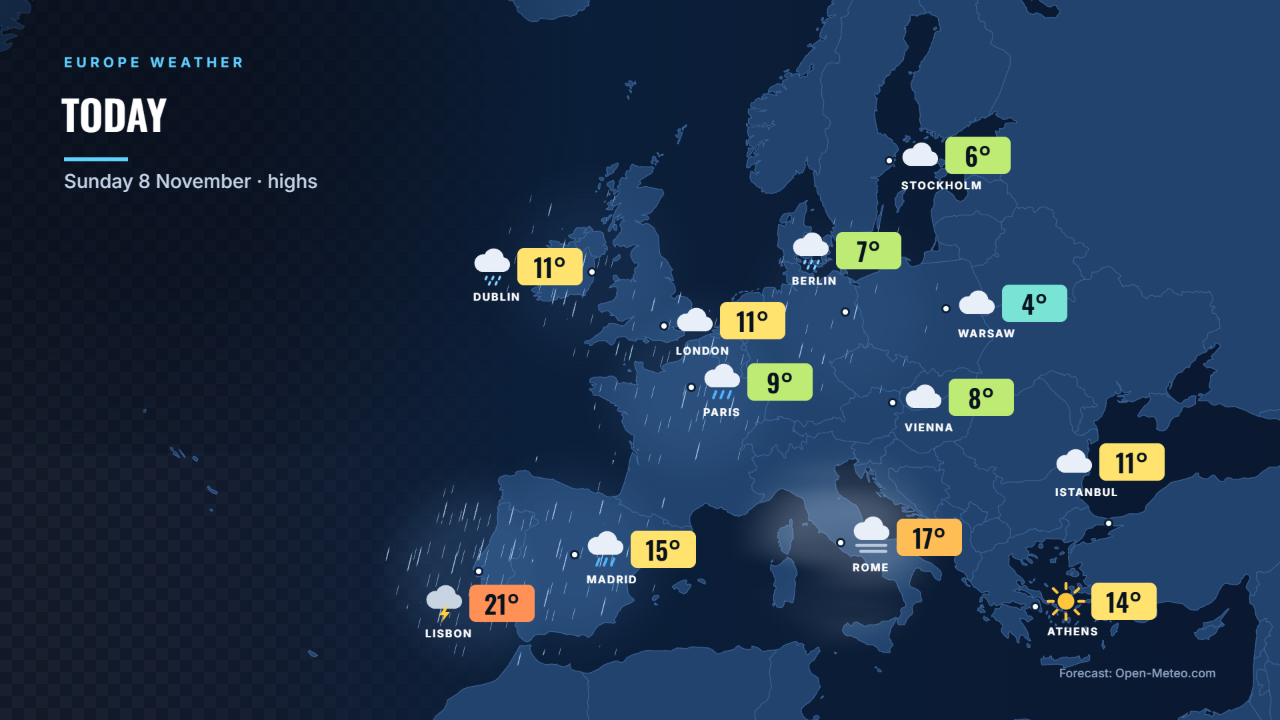
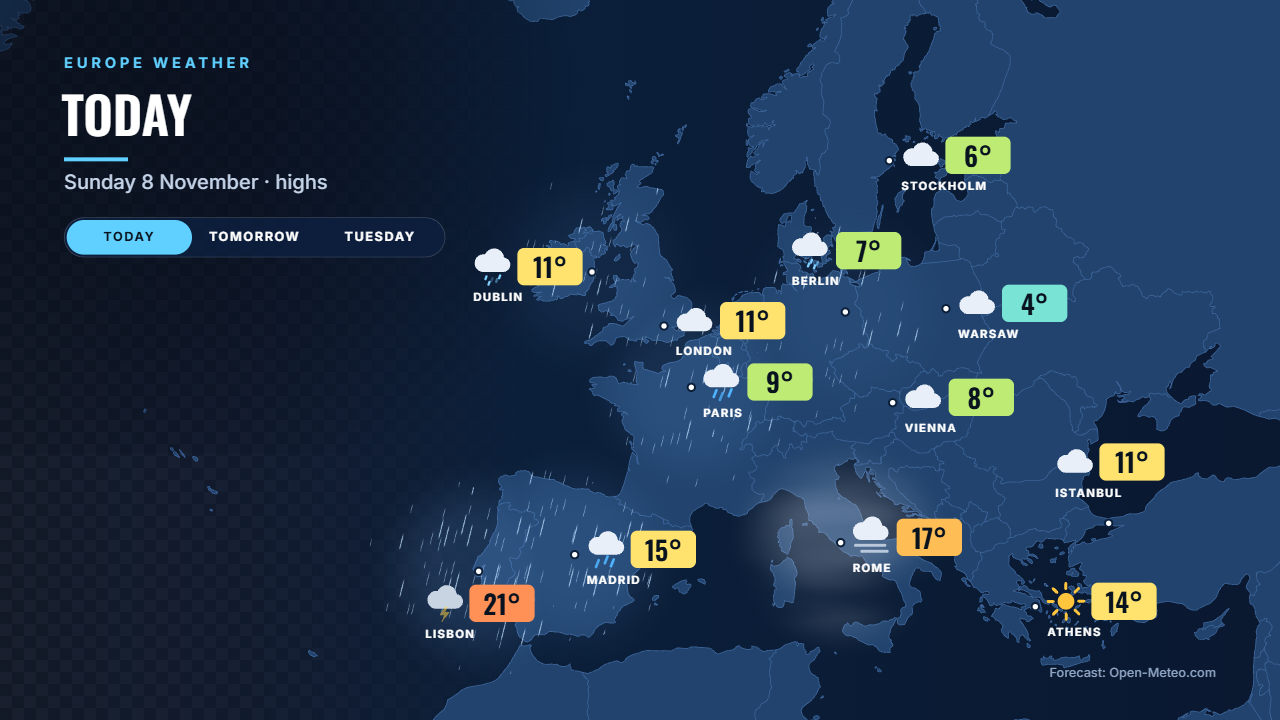
List the weather examples, and give iPhones a Fullscreen button
Europe weather and the weather strap come off unlisted: they join the
examples page, the menu and the sitemap, but stay off the homepage's "Take
the controls". The weather thumbnail now shows the day buttons, its card
gets the Interactive tag, and "How it was made" lists the later prompts.

iPhones can't put an element in fullscreen, so the example players and the
homepage reel hid their Fullscreen button there. Now it shows everywhere:
where the browser can't (or refuses), the frame fills the window instead,
the page behind stays still, and Esc or Exit fullscreen leaves. On a phone
held upright, weather and Live markets turn their picture sideways, as they
already did in Android fullscreen; taps on it still land on the right button.

diff --git a/src/components/OGrafExample/index.tsx b/src/components/OGrafExample/index.tsx
@@ -277,6 +277,9 @@ function LivePlayer({
   const [stepCount, setStepCount] = useState(1);
   const [step, setStep] = useState(0);
   const [fullscreen, setFullscreen] = useState(false);
+  /** iPhones can't put an element in fullscreen, so there the frame fills the window instead. */
+  const [filling, setFilling] = useState(false);
+  const expanded = fullscreen || filling;
   /** The browser couldn't turn the screen to landscape, so the picture turns instead. */
   const [turned, setTurned] = useState(false);
   const [barAwake, setBarAwake] = useState(true);
@@ -306,8 +309,8 @@ function LivePlayer({
   }, []);
 
   useEffect(() => {
-    if (fullscreen) wakeBar();
-  }, [fullscreen, wakeBar]);
+    if (expanded) wakeBar();
+  }, [expanded, wakeBar]);
 
   const onPhone = landscapeFullscreen && window.matchMedia('(pointer: coarse)').matches;
 
@@ -322,13 +325,39 @@ function LivePlayer({
   };
 
   const toggleFullscreen = () => {
-    const request = document.fullscreenElement
-      ? document.exitFullscreen()
-      : frameRef.current?.requestFullscreen().then(turnToLandscape);
-    request?.catch((cause: unknown) => {
-      setError(cause instanceof Error ? cause.message : String(cause));
-    });
+    if (filling || !document.fullscreenEnabled) {
+      setFilling(!filling);
+      return;
+    }
+    if (document.fullscreenElement) {
+      document.exitFullscreen().catch(() => undefined);
+      return;
+    }
+    // A browser that refuses fullscreen gets the frame filling the window instead.
+    frameRef.current
+      ?.requestFullscreen()
+      .then(turnToLandscape)
+      .catch(() => setFilling(true));
   };
+
+  // Filling the window: the page behind stays still, Esc leaves, and a phone held upright gets the
+  // picture on its side, since only fullscreen can turn the screen.
+  useEffect(() => {
+    if (!filling) return undefined;
+    const root = document.documentElement;
+    const overflow = root.style.overflow;
+    root.style.overflow = 'hidden';
+    if (onPhone) setTurned(true);
+    const leave = (event: KeyboardEvent) => {
+      if (event.key === 'Escape') setFilling(false);
+    };
+    document.addEventListener('keydown', leave);
+    return () => {
+      root.style.overflow = overflow;
+      document.removeEventListener('keydown', leave);
+      setTurned(false);
+    };
+  }, [filling, onPhone]);
 
   // Load the graphic once it's really on screen, or once the visitor scrolls towards it. On the homepage
   // it sits just under the fold, so being close doesn't count until they start to scroll.
@@ -465,7 +494,7 @@ function LivePlayer({
   }, []);
 
   // Fullscreen lifts the frame out of the page, so where the figure sits says nothing then.
-  const away = offscreen && !fullscreen;
+  const away = offscreen && !expanded;
 
   // Off screen a graphic only burns CPU, and its frame loop keeps going even off air, so after a moment it
   // unmounts and comes back in when the visitor does. Only one nobody has changed: starting over would
@@ -611,8 +640,9 @@ function LivePlayer({
         data-bar-awake={barAwake}
         data-turned={turned}
         data-letterbox={landscapeFullscreen}
-        onPointerDown={fullscreen ? wakeBar : undefined}
-        onPointerMove={fullscreen ? wakeBar : undefined}>
+        data-filling={filling}
+        onPointerDown={expanded ? wakeBar : undefined}
+        onPointerMove={expanded ? wakeBar : undefined}>
         <BackdropCamera />
         <div ref={viewportRef} className={styles.viewport} />
         {status === 'loading' && (
@@ -629,7 +659,7 @@ function LivePlayer({
             </p>
           </div>
         )}
-        {fullscreen && (
+        {expanded && (
           <div className={styles.fullscreenBar}>
             {/* On a phone the bar would cover half the graphic, which has its own controls. */}
             {!onPhone && takeButtons}
@@ -647,15 +677,12 @@ function LivePlayer({
       <div className={styles.controls}>
         <div className={styles.buttons}>
           {takeButtons}
-          {/* iPhones can't put an element in fullscreen, so they don't get the button. */}
-          {document.fullscreenEnabled && (
-            <button
-              type="button"
-              className="button button--secondary button--sm"
-              onClick={toggleFullscreen}>
-              <FullscreenIcon exit={false} /> Fullscreen
-            </button>
-          )}
+          <button
+            type="button"
+            className="button button--secondary button--sm"
+            onClick={toggleFullscreen}>
+            <FullscreenIcon exit={false} /> Fullscreen
+          </button>
         </div>
         <BackdropPicker />
         <span className={styles.status} data-status={status} role="status">

diff --git a/src/components/HeroReel/index.tsx b/src/components/HeroReel/index.tsx
@@ -209,6 +209,9 @@ function Reel(): ReactNode {
   const [folded, setFolded] = useState(false);
   const [progressKey, setProgressKey] = useState(0);
   const [fullscreen, setFullscreen] = useState(false);
+  /** iPhones can't put an element in fullscreen, so there the reel fills the window instead. */
+  const [filling, setFilling] = useState(false);
+  const expanded = fullscreen || filling;
   const [barAwake, setBarAwake] = useState(true);
   const backdrop = useBackdropStyle();
   const camera = useMonitorCamera();
@@ -463,15 +466,39 @@ function Reel(): ReactNode {
   }, []);
 
   useEffect(() => {
-    if (fullscreen) wakeBar();
-  }, [fullscreen, wakeBar]);
+    if (expanded) wakeBar();
+  }, [expanded, wakeBar]);
 
   const toggleFullscreen = useCallback(() => {
-    const request = document.fullscreenElement
-      ? document.exitFullscreen()
-      : shellRef.current?.requestFullscreen();
-    request?.catch((error: unknown) => console.error('Feature reel fullscreen failed', error));
-  }, []);
+    if (filling || !document.fullscreenEnabled) {
+      setFilling(!filling);
+      return;
+    }
+    if (document.fullscreenElement) {
+      document.exitFullscreen().catch(() => undefined);
+      return;
+    }
+    // A browser that refuses fullscreen gets the reel filling the window instead.
+    shellRef.current?.requestFullscreen().catch(() => setFilling(true));
+  }, [filling]);
+
+  // Filling the window: the page behind stays still and Esc leaves. As in fullscreen, hovering
+  // doesn't hold the slide.
+  useEffect(() => {
+    if (!filling) return undefined;
+    const root = document.documentElement;
+    const overflow = root.style.overflow;
+    root.style.overflow = 'hidden';
+    setHold('pointer', false);
+    const leave = (event: KeyboardEvent) => {
+      if (event.key === 'Escape') setFilling(false);
+    };
+    document.addEventListener('keydown', leave);
+    return () => {
+      root.style.overflow = overflow;
+      document.removeEventListener('keydown', leave);
+    };
+  }, [filling, setHold]);
 
   // A touch has no hover, so a tap on the stage holds the slide for a while.
   const touchTimer = useRef<number | undefined>(undefined);
@@ -598,15 +625,12 @@ function Reel(): ReactNode {
               )}
             </div>
             <div className={styles.actions}>
-              {/* iPhones can't put an element in fullscreen, so they don't get the button. */}
-              {document.fullscreenEnabled && (
-                <Toggle
-                  icon="fullscreen"
-                  label="Fullscreen"
-                  title="Shows the reel fullscreen"
-                  onClick={toggleFullscreen}
-                />
-              )}
+              <Toggle
+                icon="fullscreen"
+                label="Fullscreen"
+                title="Shows the reel fullscreen"
+                onClick={toggleFullscreen}
+              />
               <Toggle
                 icon="info"
                 label="How it was made"
@@ -638,16 +662,17 @@ function Reel(): ReactNode {
         <div
           ref={shellRef}
           className={styles.stageShell}
-          style={fullscreen ? backdrop : undefined}
+          style={expanded ? backdrop : undefined}
           data-bar-awake={barAwake}
-          onPointerMove={fullscreen ? wakeBar : undefined}>
+          data-filling={filling}
+          onPointerMove={expanded ? wakeBar : undefined}>
         <div
           ref={stageRef}
           className={styles.stage}
           style={backdrop}
           role="group"
           aria-label={`OGraf Studio feature reel, showing ${SLIDES[active].name}`}
-          onPointerEnter={(event) => event.pointerType === 'mouse' && !fullscreen && setHold('pointer', true)}
+          onPointerEnter={(event) => event.pointerType === 'mouse' && !expanded && setHold('pointer', true)}
           onPointerLeave={(event) => event.pointerType === 'mouse' && setHold('pointer', false)}
           onPointerMove={onStagePointerMove}
           onPointerDown={onStagePointerDown}>
@@ -715,7 +740,7 @@ function Reel(): ReactNode {
             </p>
           )}
         </div>
-          {fullscreen && (
+          {expanded && (
             <div className={styles.fullscreenBar} role="group" aria-label="Reel controls">
               {SLIDES.map((slide, index) => (
                 <button

diff --git a/src/components/OGrafExample/styles.module.css b/src/components/OGrafExample/styles.module.css
@@ -18,26 +18,40 @@
   inset: 0;
 }
 
-/* Fullscreen: the stage keeps 16:9 and the backdrop fills whatever the screen leaves over. */
-.frame:fullscreen {
+/*
+ * Fullscreen: the stage keeps 16:9 and the backdrop fills whatever the screen leaves over. iPhones can't
+ * put an element in fullscreen, so there the frame fills the window instead (`data-filling`), and the
+ * same rules apply. Dynamic viewport units leave out a phone's browser bars.
+ */
+.frame[data-filling='true'] {
+  position: fixed;
+  z-index: 1000;
+  inset: 0;
+}
+
+.frame:fullscreen,
+.frame[data-filling='true'] {
   width: 100%;
   height: 100%;
   aspect-ratio: auto;
 }
 
-.frame:fullscreen .viewport {
+.frame:fullscreen .viewport,
+.frame[data-filling='true'] .viewport {
   inset: 0;
-  width: min(100vw, calc(100vh * 16 / 9));
-  height: min(100vh, calc(100vw * 9 / 16));
+  width: min(100vw, calc(100dvh * 16 / 9));
+  height: min(100dvh, calc(100vw * 9 / 16));
   margin: auto;
 }
 
 /* A graphic that fills its frame has nothing to show through, so the sides are plain. The backdrop is an inline style. */
-.frame:fullscreen[data-letterbox='true'] {
+.frame:fullscreen[data-letterbox='true'],
+.frame[data-filling='true'][data-letterbox='true'] {
   background: #000 !important;
 }
 
-.frame:fullscreen[data-bar-awake='false'] {
+.frame:fullscreen[data-bar-awake='false'],
+.frame[data-filling='true'][data-bar-awake='false'] {
   cursor: none;
 }
 
@@ -75,8 +89,9 @@
  * this no longer applies. The frame itself can't turn: browsers forbid transforms on a fullscreen element.
  */
 @media (orientation: portrait) {
-  .frame:fullscreen[data-turned='true'] {
-    --long: min(100vh, calc(100vw * 16 / 9));
+  .frame:fullscreen[data-turned='true'],
+  .frame[data-filling='true'][data-turned='true'] {
+    --long: min(100dvh, calc(100vw * 16 / 9));
     --short: calc(var(--long) * 9 / 16);
   }
 
@@ -84,9 +99,10 @@
    * The player scales the graphic to how wide its box looks on screen, and on its side that's the box's
    * height. So the box is as tall as the graphic is long, and the graphic fills its top left corner.
    */
-  .frame:fullscreen[data-turned='true'] .viewport {
+  .frame:fullscreen[data-turned='true'] .viewport,
+  .frame[data-filling='true'][data-turned='true'] .viewport {
     inset: auto;
-    top: calc(50vh - var(--long) / 2);
+    top: calc(50dvh - var(--long) / 2);
     left: calc(50vw + var(--short) / 2);
     width: calc(var(--long) * 16 / 9);
     height: var(--long);
@@ -95,11 +111,12 @@
     transform-origin: 0 0;
   }
 
-  .frame:fullscreen[data-turned='true'] .fullscreenBar {
+  .frame:fullscreen[data-turned='true'] .fullscreenBar,
+  .frame[data-filling='true'][data-turned='true'] .fullscreenBar {
     top: 50%;
     bottom: auto;
     left: 0;
-    max-width: calc(100vh - 3rem);
+    max-width: calc(100dvh - 3rem);
     transform: translate(-50%, -50%) rotate(90deg) translateY(calc(-50% - 1rem));
   }
 }

diff --git a/src/data/examples.ts b/src/data/examples.ts
@@ -148,16 +148,19 @@ export const examples: Example[] = [
   {
     slug: 'weather',
     title: 'Europe weather',
-    summary: 'A five-step weather show for a presenter, on a live forecast, with see-through rain and snow.',
+    summary: 'A five-step weather show for a presenter on a live forecast, with touch buttons and see-through rain and snow.',
     image: '/img/examples/weather.png',
     level: 'Advanced',
-    tags: ['Live data', 'Steps', 'Shader', 'Function'],
-    unlisted: true,
+    tags: ['Live data', 'Steps', 'Shader', 'Function', 'Interactive'],
+    notOnHomepage: true,
     origin: {
       model: MODEL,
-      generationTime: 'About 45 minutes',
+      generationTime: 'About 1 hour 30 minutes',
       prompts: [
         'Build a broadcast weather report graphics example. Make it Europe, and live: the full sequence plus a strap. A clean, flat look, but with see-through shaders for the rain, snow and so on. First draw a concept storyboard, then build it.',
+        'When the outlook city changes, zoom out a little and back in to the new city, so the map feels interactive. Animate the small icons in the city view, update the statistics for the new city, and add an automatic tour of the cities.',
+        'Make the move from city to city one smooth move: no zoom out for a nearby city, and only for a long trip if at all. Make it clear to viewers that they are seeing the real weather, live.',
+        'Add three touch buttons: Today, Tomorrow, and the day after with its name, such as Tuesday. Slow the rain down. When the map moves from a foggy or rainy city to a clear one, clear the effect before it moves.',
       ],
     },
   },
@@ -168,7 +171,7 @@ export const examples: Example[] = [
     image: '/img/examples/weather-strap.png',
     level: 'Intermediate',
     tags: ['Live data', 'Shader', 'Function'],
-    unlisted: true,
+    notOnHomepage: true,
     origin: {
       model: MODEL,
       generationTime: 'Part of Europe weather',

diff --git a/src/components/HeroReel/styles.module.css b/src/components/HeroReel/styles.module.css
@@ -206,22 +206,33 @@
 }
 
 /* Fullscreen: the stage keeps 16:9, so its marks and links stay on the graphic, and the backdrop
-   fills whatever the screen leaves over. */
-.stageShell:fullscreen {
+   fills whatever the screen leaves over. iPhones can't put an element in fullscreen, so there the
+   shell fills the window instead (`data-filling`). Dynamic viewport units leave out the browser bars. */
+.stageShell[data-filling='true'] {
+  position: fixed;
+  z-index: 1000;
+  inset: 0;
+}
+
+.stageShell:fullscreen,
+.stageShell[data-filling='true'] {
   display: flex;
   align-items: center;
   justify-content: center;
   background: #0a0f1f;
 }
 
-.stageShell:fullscreen .stage {
-  width: min(100vw, calc(100vh * 16 / 9));
+.stageShell:fullscreen .stage,
+.stageShell[data-filling='true'] .stage {
+  width: min(100vw, calc(100dvh * 16 / 9));
   border-radius: 0;
   box-shadow: none;
 }
 
 .stageShell:fullscreen[data-bar-awake='false'],
-.stageShell:fullscreen[data-bar-awake='false'] .stage {
+.stageShell:fullscreen[data-bar-awake='false'] .stage,
+.stageShell[data-filling='true'][data-bar-awake='false'],
+.stageShell[data-filling='true'][data-bar-awake='false'] .stage {
   cursor: none !important;
 }
 
